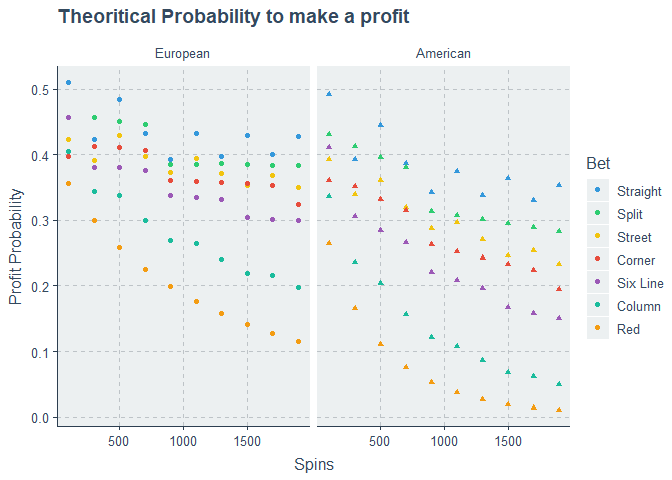
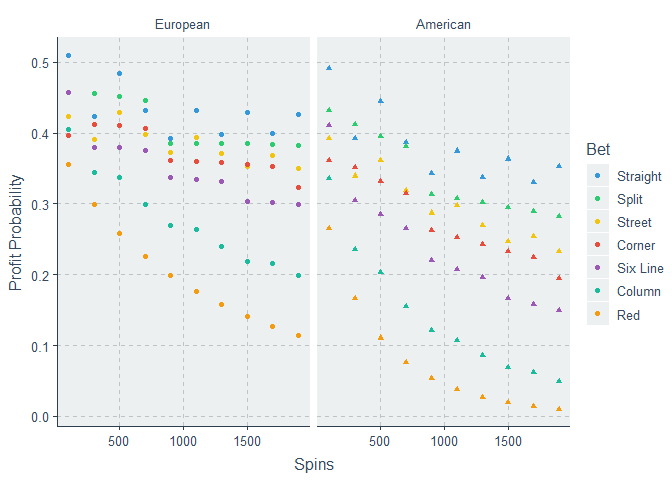
display

diff --git a/roulette_strategy.md b/roulette_strategy.md
@@ -13,8 +13,6 @@ Thanos Livanis
 Simulation of *Gambler’s Ruin* problem under different betting
 strategies
 
-@To do: render equations, graph display, comment part 2, add MMD,
-
 ## Roulette
 
 ### PnL Distribution
@@ -30,7 +28,7 @@ options(scipen = 999)
 
 
 # types of roulette bets with different Payouts
-roulette <- tribble(
+roulette_table <- tribble(
   ~bet,       ~n,   ~payout,
   "Straight",  1,    35,  
   "Split",     2,    17,
@@ -40,21 +38,21 @@ roulette <- tribble(
   "Column",    12,   2,
   "Red",       18,   1)
 
-roulette <- bind_rows(roulette %>% mutate(type = "European"), 
-                      roulette %>% mutate(type = "American")) %>%
+roulette_table <- bind_rows(roulette_table %>% mutate(type = "European"), 
+                            roulette_table %>% mutate(type = "American")) %>%
   relocate(type, .before = bet) %>%
   mutate(prop = ifelse(type == "European", n/37, n/38), 
          EV = prop*(payout + 1) - 1)
 ```
 
 ``` r
-spin_wheel <- function(roulette_type, bet_type, nspins){
+spin_wheel <- function(roulette, bet, nspins){
   
   params <- as.list(environment())
   
-  id <- which(roulette$type == roulette_type & roulette$bet == bet_type)
-  prop <- roulette$prop[id]
-  payout <- roulette$payout[id]
+  id <- which(roulette_table$type == roulette & roulette_table$bet == bet)
+  prop <- roulette_table$prop[id]
+  payout <- roulette_table$payout[id]
   
   spins = rbinom(nspins, 1, prop)
   
@@ -62,25 +60,26 @@ spin_wheel <- function(roulette_type, bet_type, nspins){
 }
 
 
-returns <- expand.grid(roulette_type = c("European", "American"),
-                       bet_type = unique(roulette$bet),
+returns <- expand.grid(roulette = c("European", "American"),
+                       bet = unique(roulette_table$bet),
                        trials = 1000) %>%
-  pmap(function(roulette_type, bet_type, trials) {
-    replicate(5000, spin_wheel(roulette_type, bet_type, trials), simplify = F) %>% bind_rows()}) %>% bind_rows()
+  pmap(function(roulette, bet, trials) {
+    replicate(5000, spin_wheel(roulette, bet, trials), simplify = F) %>% bind_rows()}) %>% bind_rows()
 ```
 
 ``` r
 ggthemr("flat")
 
-pl_density <- returns %>% filter(roulette_type == "European") %>%
-  ggplot(aes(x = PnL, color = bet_type)) +
+pl_density <- returns %>% filter(roulette == "European") %>%
+  ggplot(aes(x = PnL, color = bet)) +
   geom_density(adjust = 1.5, show.legend = F) + 
   coord_cartesian(xlim = c(-500, 500)) 
 
-pl_box <- returns %>% filter(roulette_type == "European") %>%
-  ggplot(aes(x = bet_type, y = PnL, fill = bet_type)) +
+pl_box <- returns %>% filter(roulette == "European") %>%
+  ggplot(aes(x = bet, y = PnL, fill = bet)) +
   geom_boxplot() +
-  theme(axis.title.x=element_blank(), axis.text.x = element_text(angle = 90, vjust = 0.5, hjust=1)) 
+  guides(color = guide_legend(title = "Bet")) +
+  theme(axis.title.x=element_blank(), axis.text.x = element_text(angle = 90, vjust = 0.5, hjust = 1)) 
 
 
 grid.arrange(pl_density, pl_box, ncol=2, top = "Profit & Loss distribution after 1000 European Roulette Spins")
@@ -97,13 +96,13 @@ PnL = *M* ⋅ payout − (*N*−*M*). Thus: *M* \> *N* ÷ (p
 Profit Probability = *P*(*X*≥⌈*M*⌉) = pbinom(⌊*M*⌋,Spins,*p*,lower.tail = F)
 
 ``` r
-prop_profit <- function(roulette_type, bet_type, nspins) {
+prop_profit <- function(roulette, bet, nspins) {
   
   params <- as.list(environment())
   
-  id <- which(roulette$type == roulette_type & roulette$bet == bet_type)
-  prop <- roulette$prop[id]
-  payout <- roulette$payout[id]
+  id <- which(roulette_table$type == roulette & roulette_table$bet == bet)
+  prop <- roulette_table$prop[id]
+  payout <- roulette_table$payout[id]
   
   list(p_profit = pbinom(floor(nspins/(payout + 1)), nspins, prop, lower.tail = F)) %>%
     bind_cols(params)
@@ -112,15 +111,15 @@ prop_profit <- function(roulette_type, bet_type, nspins) {
 
 ggthemr("flat")
 
-expand.grid(bet_type = unique(roulette$bet),
-            roulette_type = c("European", "American"),
+expand.grid(bet = unique(roulette_table$bet),
+            roulette = c("European", "American"),
             nspins = seq(100, 2000, 200)) %>%
   pmap_dfr(prop_profit) %>%
-  ggplot(aes(x = nspins, y = p_profit, color = bet_type, shape = roulette_type)) +
+  ggplot(aes(x = nspins, y = p_profit, color = bet, shape = roulette)) +
   geom_point() + 
-  facet_wrap(roulette_type ~.) +
+  facet_wrap(roulette ~.) +
   guides(color = guide_legend(title = "Bet"), shape = "none") +
-  labs(x = "Spins", y = "Profit Probability", title = "Theoritical Probability to make a profit")
+  labs(x = "Spins", y = "Profit Probability")
 ```
 
 ![](roulette_strategy_files/figure-gfm/profit-1.png)<!-- -->
@@ -140,7 +139,7 @@ in Sports betting a margin of 1/36 applied to fair probabilities of
 called odds ratio. 
 
 Let’s visualize how the margin is applied to a probability event. The
-margin of an Event i with odds of o and probability p is:
+margin of an event i with odds of o and probability p is:
 $M_i = \\frac{1}{o} - p$. We will use the [implied
 package](https://opisthokonta.net/?p=1797) to convert fair probabilities
 to bookmaker’s odds by applying sequentially a margin of 1/36 and 2/36,
@@ -150,14 +149,14 @@ as in the case of European and American Roulette respectively.
 ggthemr("flat")
 
 library(implied)
-sport_odds <- function(roulette_type) {
+sport_odds <- function(roulette) {
   
   # fair Roulette probabilities
-  fair_props <- filter(roulette, type == roulette_type) %>% 
+  fair_props <- filter(roulette_table, type == roulette) %>% 
     mutate(com_prop = 1 - prop, 
-           type = ifelse(roulette_type == "European",  "Sports|1/36", "Sports|2/36"))
+           type = ifelse(roulette == "European",  "Sports|1/36", "Sports|2/36"))
   
-  margin <- ifelse(roulette_type == "European", 1/36, 2/36)
+  margin <- ifelse(roulette == "European", 1/36, 2/36)
   
   bookmakers_odds  <- implied_odds(fair_props[, c("prop", "com_prop")], "or", margin) %>% .[["odds"]] %>%
     as.data.frame() %>% select(1) %>% setNames("odds")
@@ -169,7 +168,7 @@ odds <- map_dfr(list("European", "American"), sport_odds)
 
 # Applied Margin
 ggplot() +
-  geom_point(data = roulette, aes(x = prop, y = 1/(payout + 1) - prop, color = bet, shape = type), size = 3) + 
+  geom_point(data = roulette_table, aes(x = prop, y = 1/(payout + 1) - prop, color = bet, shape = type), size = 3) + 
   geom_point(data = odds, aes(x = prop, y = 1/odds - prop, color = bet,  shape = type), show.legend = F) +
   geom_abline(intercept = 0, slope = 1/36, linetype = 1) + 
   geom_abline(intercept = 0, slope = 2/36, linetype = 2) + 
@@ -179,8 +178,9 @@ ggplot() +
 
 ![](roulette_strategy_files/figure-gfm/applied_margin-1.png)<!-- -->
 
-Thus there is a much higher chance to profit from long shots due to
-higher standard deviation returns, but obviously we can suffer heavier
+In sports betting longshots tend to have lower expected value. Thus
+there is a much higher chance to profit from long shots due to higher
+standard deviation returns, but obviously we can still suffer heavier
 losses.
 
 ## II. Gamber’s Ruin in Roulette
@@ -219,12 +219,12 @@ place 20$
 
 ### Martingale
 
-Suppose that I bet 1$ to an event with payout p, expecting to make p
-units profit *S*<sub>0</sub> = 1 If i lose the bet then the next bet to
-cover the loss and make p units profit has to be:
+Suppose that we bet 1$ to an event with payout p, expecting to make p
+units profit *S*<sub>0</sub> = 1 If we lose the bet, in order to cover
+the loss and make p units profit, the next bet has to be:
 $S_1 = \\frac{p + 1}{p} = 1 + \\frac{1}{p}$ If
 *S*<sub>*n* − 1</sub> = *x*<sup>*n* − 1</sup>, where
-$x = 1 + \\frac{1}{p}$, after n-1 consecutive loses,
+$x = 1 + \\frac{1}{p}$, then after n-1 consecutive loses,
 $S_n = \\frac{p + x\_{0} + x\_{1} + \\cdots + x\_{n-1}}{p}$  
 $S_n = \\frac{p + \\frac{1-x^n}{1-x}}{p} = 1 + \\frac{1 - x^n}{(1-x)p}$  
 Substituting x, we get:  
@@ -245,15 +245,15 @@ martingale_stakes <- function(payout, consecutive_loses) {
   stake <-bind_cols(params, data.frame(stake = round(1 + sum(stake)/payout, 3))) 
 }
 
-expand.grid(payout = unique(roulette$payout),
+expand.grid(payout = unique(roulette_table$payout),
                       consecutive_loses = 0:10) %>%
-  pmap(martingale_stakes) %>% bind_rows() %>% 
-  left_join(roulette[roulette$type == "European", c("payout", "bet")], by = "payout") %>%
+  pmap_dfr(martingale_stakes) %>% 
+  left_join(roulette_table[roulette_table$type == "European", c("payout", "bet")], by = "payout") %>%
   ggplot(aes(x = consecutive_loses, y = stake, color = bet)) +
-  geom_point() + geom_smooth(show.legend = F) +
+  geom_point() + 
   scale_x_continuous(breaks = 0:10) +
   scale_y_continuous(trans='log2') +
-  labs(x = "Losing Streak", y = "Stake", "Martingale stakes for different payouts starting with 1$")
+  labs(x = "Losing Streak", y = "Stake", title = "Martingale Stakes starting with 1$")
 ```
 
 ![](roulette_strategy_files/figure-gfm/martingale-1.png)<!-- -->
@@ -262,8 +262,8 @@ expand.grid(payout = unique(roulette$payout),
 
 ``` r
 # @params:
-# @roulette_type: "European" | "American"
-# @bet_type: {Straight, Split, Street...}
+# @roulette: "European" | "American"
+# @bet: {Straight, Split, Street...}
 # @max_bet: Casino limit
 
 # @strategy: Default| Martingale | Bold
@@ -272,12 +272,12 @@ expand.grid(payout = unique(roulette$payout),
 # Bold: Bet the whole bank
 # All strategies limited by current bank, max bet allowed by casino and
 # **We never bet more than we actually need to reach our target.**
-play_roulette <- function(roulette_type, bet_type, starting_bank, target_bank, max_bet, strategy, plot = F) {
+play_roulette <- function(roulette, bet, starting_bank, target_bank, max_bet, strategy, plot = F) {
   
   params <- as.list(environment())[1:6]
   
-  id <- which(roulette$type == roulette_type & roulette$bet == bet_type)
-  prop <- roulette$prop[id]; payout <- roulette$payout[id]
+  id <- which(roulette_table$type == roulette & roulette_table$bet == bet)
+  prop <- roulette_table$prop[id]; payout <- roulette_table$payout[id]
   
   current_bank <- starting_bank
   losing_streak <- 0
@@ -289,7 +289,6 @@ play_roulette <- function(roulette_type, bet_type, starting_bank, target_bank, m
   spins <- 0
   
   stake_fun <- function(strategy) {
-    
     if (strategy == "Default")
       function(bank, payout, ls) 1
     else if (strategy == "Martingale")
@@ -313,7 +312,6 @@ play_roulette <- function(roulette_type, bet_type, starting_bank, target_bank, m
     # update containers
     stake[spins] <- bet
     series[spins + 1] <- current_bank
-    
   }
   
   #trim vectors
@@ -327,7 +325,7 @@ play_roulette <- function(roulette_type, bet_type, starting_bank, target_bank, m
   if (plot) {
     pl <- ggplot(sim, aes(x = spins, y = bank)) + 
       geom_line(color = "red") + labs(title = "Roulette Spinning", 
-                                      subtitle = paste(c("Bet", "Strategy"), "=",  c(bet_type, strategy), collapse = ", "))
+                                      subtitle = paste(c("Bet", "Strategy"), "=",  c(bet, strategy), collapse = ", "))
     print(plot)
   }
     
@@ -339,18 +337,18 @@ play_roulette <- function(roulette_type, bet_type, starting_bank, target_bank, m
 ggthemr("flat")
 
 # Typical time Series
-expand.grid(roulette_type = "European",
-            bet_type = c("Straight", "Corner", "Red"),
+expand.grid(roulette = "European",
+            bet = c("Straight", "Corner", "Red"),
             starting_bank = 50,
             target_bank = 100, 
             max_bet = 100, 
             strategy = c("Default", "Martingale", "Bold")) %>%
   pmap_dfr(play_roulette) %>%
-  ggplot(aes(x = spins, y = bank, color = bet_type)) +
+  ggplot(aes(x = spins, y = bank, color = bet)) +
   geom_line() +
   scale_color_manual(breaks = c("Straight", "Corner", "Red"),
                      values=c("orange", "blue", "red")) +
-  facet_wrap(strategy ~ bet_type, scales = "free_x") +
+  facet_wrap(strategy ~ bet, scales = "free_x") +
   theme(strip.text.x = element_text(margin = margin(l = 0))) +
   ggtitle("Random Spins")
 ```
@@ -359,12 +357,12 @@ expand.grid(roulette_type = "European",
 
 ``` r
 # Simulate roulette round several times and & extract stats
-simulate <- function(roulette_type, bet_type, starting_bank, target_bank, max_bet, strategy) {
+simulate <- function(roulette, bet, starting_bank, target_bank, max_bet, strategy) {
   
   set.seed(1)
   nsims <- 5000
   
-  mc_results <- replicate(nsims, play_roulette(roulette_type, bet_type, starting_bank, target_bank, max_bet, strategy), simplify = F) %>%
+  mc_results <- replicate(nsims, play_roulette(roulette, bet, starting_bank, target_bank, max_bet, strategy), simplify = F) %>%
     map_dfr(~tail(., 1)) %>%
     group_by(group_by(across(4:9))) %>%
     summarize(win_prop = mean(bank >= target_bank), 
@@ -377,13 +375,12 @@ simulate <- function(roulette_type, bet_type, starting_bank, target_bank, max_be
 ```
 
 ``` r
-params <- expand.grid(roulette_type = "European",
-                      bet_type = unique(roulette$bet),
+params <- expand.grid(roulette = "European",
+                      bet = unique(roulette_table$bet),
                       starting_bank = 50,
                       target_bank = 150, 
                       max_bet = 100, 
                       strategy = c("Default", "Martingale", "Bold"))
-
 
 results <- params %>%
   pmap_dfr(simulate, .progress = T)
@@ -393,25 +390,23 @@ results <- params %>%
 ggthemr("flat")
 
 results %>%
-  ggplot(aes(x = strategy, y = win_prop, fill = bet_type)) +
+  ggplot(aes(x = strategy, y = win_prop, fill = bet)) +
   geom_bar(stat="identity", position = "dodge", alpha = 0.8) +
-  geom_errorbar(aes(ymin = win_prop - win_prop_se, ymax = win_prop + win_prop_se, color = bet_type), width= .2, 
-                position = position_dodge(.9)) +
+  geom_errorbar(aes(ymin = win_prop - 1.96*win_prop_se, ymax = win_prop + 1.96*win_prop_se, color = bet), width= .2, 
+                position = position_dodge(.9), show.legend = F) +
   labs(x = "Strategy", y = "Win Probability", 
        title = paste(c("Starting Bank", "Target Bank"), "=",  c(unique(results$starting_bank), unique(results$target_bank)), collapse = ", "))
 ```
 
-![](roulette_strategy_files/figure-gfm/unnamed-chunk-1-1.png)<!-- -->
+![](roulette_strategy_files/figure-gfm/sim_results-1.png)<!-- -->
 
 ``` r
 results %>%
-  ggplot(aes(x = strategy, y = spins_exp, fill = bet_type)) +
+  ggplot(aes(x = strategy, y = spins_exp, fill = bet)) +
   geom_bar(stat="identity", position = "dodge", alpha = 0.8) +
-  geom_errorbar(aes(ymin = spins_exp - spins_exp_se, ymax = spins_exp + spins_exp_se, color = bet_type), width = .2, 
-                position = position_dodge(.9)) +
   scale_y_continuous(trans='log2') +
-    labs(x = "Strategy", y = "Win Probability", 
-       title = paste(c("Starting Bank", "Target Bank"), "=",  c(unique(results$starting_bank), unique(results$target_bank)), collapse = ", "))
+    labs(x = "Strategy", y = "Average Spins", 
+       title = paste(c("Starting Bank", "Target Bank"), "=", c(unique(results$starting_bank), unique(results$target_bank)), collapse = ", "))
 ```
 
-![](roulette_strategy_files/figure-gfm/unnamed-chunk-1-2.png)<!-- -->
+![](roulette_strategy_files/figure-gfm/sim_results-2.png)<!-- -->
